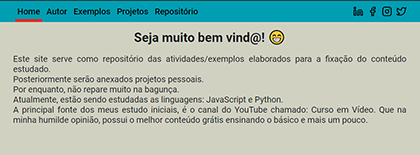
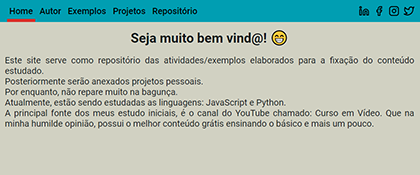
v1 em versoes do site

Changed region(s): [[0.0, 0.0, 1.0, 0.8]]

diff --git a/pages/projects/site/versions/v1/index.html b/pages/projects/site/versions/v1/index.html
@@ -1,0 +1,66 @@
+<!DOCTYPE html>
+<html lang="pt-br">
+<head>
+    <meta charset="UTF-8">
+    <meta name="viewport" content="width=device-width, initial-scale=1.0">
+    <title>Bruno Alves Maia</title>
+    
+    <link rel="stylesheet" href="style.css">   <!-- Chmada do Css -->
+</head>
+
+<body>
+    <header class="header">
+        <div class="content">
+            <!--                            Utilizar quando tiver Alguma logo -->
+            <div class="logo" style="float: left;">     <!-- Jogar o Home par a esquerda -->
+                <a href="../../../../../index.html"><img src="../../../../../src/icons/home.svg" alt="Voltar para a página inicial"> </a>      <!-- <i class="fas fa-book-reader"></i> -->
+            </div>
+
+            <a href="" class="nav-toggle" style="float: right;" onclick="openmenu()">    <!-- Jogar o menu para a direita -->
+                <img src="../../../../../src/icons/menu.svg" alt="">                                        <!-- <i class="fas fa-bars"> </i> -->
+            </a>
+
+            <nav class="nav">
+                <p>
+                    <span class="nav-close" style="float: right;" onclick="closenmenu()">
+                        <i class="fas fa-bars"><img src="../../../../../src/icons/x.svg" alt=""></i>
+                    </span>
+                </p>
+                <ul>
+                    <li> <a href="../../../../../index.html" class="current">Home</a> </li>
+                    <li> <a href="./aboutme.html">Autor</a> </li>
+                    <li> <a href="../../index.html">Versões do Site</a> </li>
+                </ul>
+            </nav>
+
+            <nav class="social">
+                <ul>
+                    <li> <a href="https://www.linkedin.com/in/brunoamaia94/"> <img src="../../../../../src/icons/linkedin.svg" alt=""> </a></li>
+                    <li> <a href="https://www.facebook.com/brunoamaia94"> <img src="../../../../../src/icons/facebook.svg" alt=""> </a></li>
+                    <li> <a href="./index.html"> <img src="../../../../../src/icons/instagram.svg" alt=""> </a></li>
+                    <li> <a href="./index.html"> <img src="../../../../../src/icons/twitter.svg" alt=""> </a></li>
+                </ul>
+            </nav>
+        </div>
+    </header>
+
+    <section>
+        <header>
+            <h1>Seja muito bem vind@! 😁 </h1>
+        </header>
+        <p>
+        Este site serve como repositório das atividades/exemplos elaborados para a fixação do conteúdo estudado. <br>
+        Posteriormente serão anexados projetos pessoais. <br>
+        Por enquanto, não repare muito na bagunça. <br>
+        Atualmente, estão sendo estudadas as linguagens: JavaScript e Python. <br>
+        A principal fonte dos meus estudo iniciais, é o canal do YouTube chamado: Curso em Vídeo.
+        Que na minha humilde opinião, possui o melhor conteúdo grátis ensinando o básico e mais um pouco.
+        </p>
+        <!--
+        <button onclick="location.href='./pages/aboutme/index.html'">Quem sou eu?</button> -->
+    </section>
+
+    <script src="https://ajax.googleapis.com/ajax/libs/jquery/3.4.1/jquery.min.js"></script>    <!-- Usar scrip da google para fazer a interação com o menu  -->
+    <script src="script.js"></script> <!-- Chamada do JavaScript -->
+</body>
+</html>

diff --git a/pages/projects/site/versions/v1/aboutme.html b/pages/projects/site/versions/v1/aboutme.html
@@ -1,0 +1,62 @@
+<!DOCTYPE html>
+<html lang="pt-br">
+<head>
+    <meta charset="UTF-8">
+    <meta name="viewport" content="width=device-width, initial-scale=1.0">
+    <title>Quem sou eu?</title>
+
+    <link rel="stylesheet" href="styles.css">   <!-- Chmada do Css -->
+</head>
+
+<body>
+    <header class="header">
+        <div class="content">
+            <!--                            Utilizar quando tiver Alguma logo -->
+            <div class="logo" style="float: left;">     <!-- Jogar o Home par a esquerda -->
+                <a href="../../../../../index.html"><img src="../../../../../src/icons/home.svg" alt="Voltar para a página inicial"> </a>      <!-- <i class="fas fa-book-reader"></i> -->
+            </div>
+
+            <a href="" class="nav-toggle" style="float: right;" onclick="openmenu()">    <!-- Jogar o menu para a direita -->
+                <img src="../../../../../src/icons/menu.svg" alt="">                                        <!-- <i class="fas fa-bars"> </i> -->
+            </a>
+
+            <nav class="nav">
+                <p>
+                    <span class="nav-close" style="float: right;" onclick="closenmenu()">
+                        <i class="fas fa-bars"><img src="../../../../../src/icons/x.svg" alt=""></i>
+                    </span>
+                </p>
+                <ul>
+                    <li> <a href="index.html" >Home</a> </li>
+                    <li> <a href="" class="current" >Autor</a> </li>
+                    <li> <a href="../../index.html">Versões do Site</a> </li>
+                </ul>
+            </nav>
+
+            <nav class="social">
+                <ul>
+                    <li> <a href="https://www.linkedin.com/in/brunoamaia94/"> <img src="../../../../../src/icons/linkedin.svg" alt=""> </a></li>
+                    <li> <a href="https://www.facebook.com/brunoamaia94"> <img src="../../../../../src/icons/facebook.svg" alt=""> </a></li>
+                    <li> <a href="./index.html"> <img src="../../../../../src/icons/instagram.svg" alt=""> </a></li>
+                    <li> <a href="./index.html"> <img src="../../../../../src/icons/twitter.svg" alt=""> </a></li>
+                </ul>
+            </nav>
+        </div>
+    </header>
+
+    <section>
+        <header>
+            <h1>Quem sou eu?</h1>
+        </header>
+        <p>
+        <h1>Em construção!</h1>
+        Ainda estamos trabalhando nessa página. <br>
+        Por favor, volte mais tarde!
+        </p>
+    </section>
+
+    <script src="https://ajax.googleapis.com/ajax/libs/jquery/3.4.1/jquery.min.js"></script>    <!-- Usar scrip da google para fazer a interação com o menu  -->
+    <script src="script.js"></script> <!-- Chamada do JavaScript -->
+
+</body>
+</html>

diff --git a/pages/projects/site/versions/v1/script.js b/pages/projects/site/versions/v1/script.js
@@ -1,0 +1,11 @@
+function openmenu() {
+    //$("#nav").css("right:", 0 + "px");
+    event.preventDefault();
+    $('.nav').css({ 'right':'0px'});
+}
+
+function closenmenu() {
+    //$("#nav").css("right:", 0 + "px");
+    event.preventDefault();
+    $('.nav').css({ 'right':'-100%'});
+}

diff --git a/pages/projects/site/versions/v0/aboutme.html b/pages/projects/site/versions/v0/aboutme.html
@@ -28,6 +28,4 @@
     </section>
 
 </body>
-    
-</body>
 </html>
